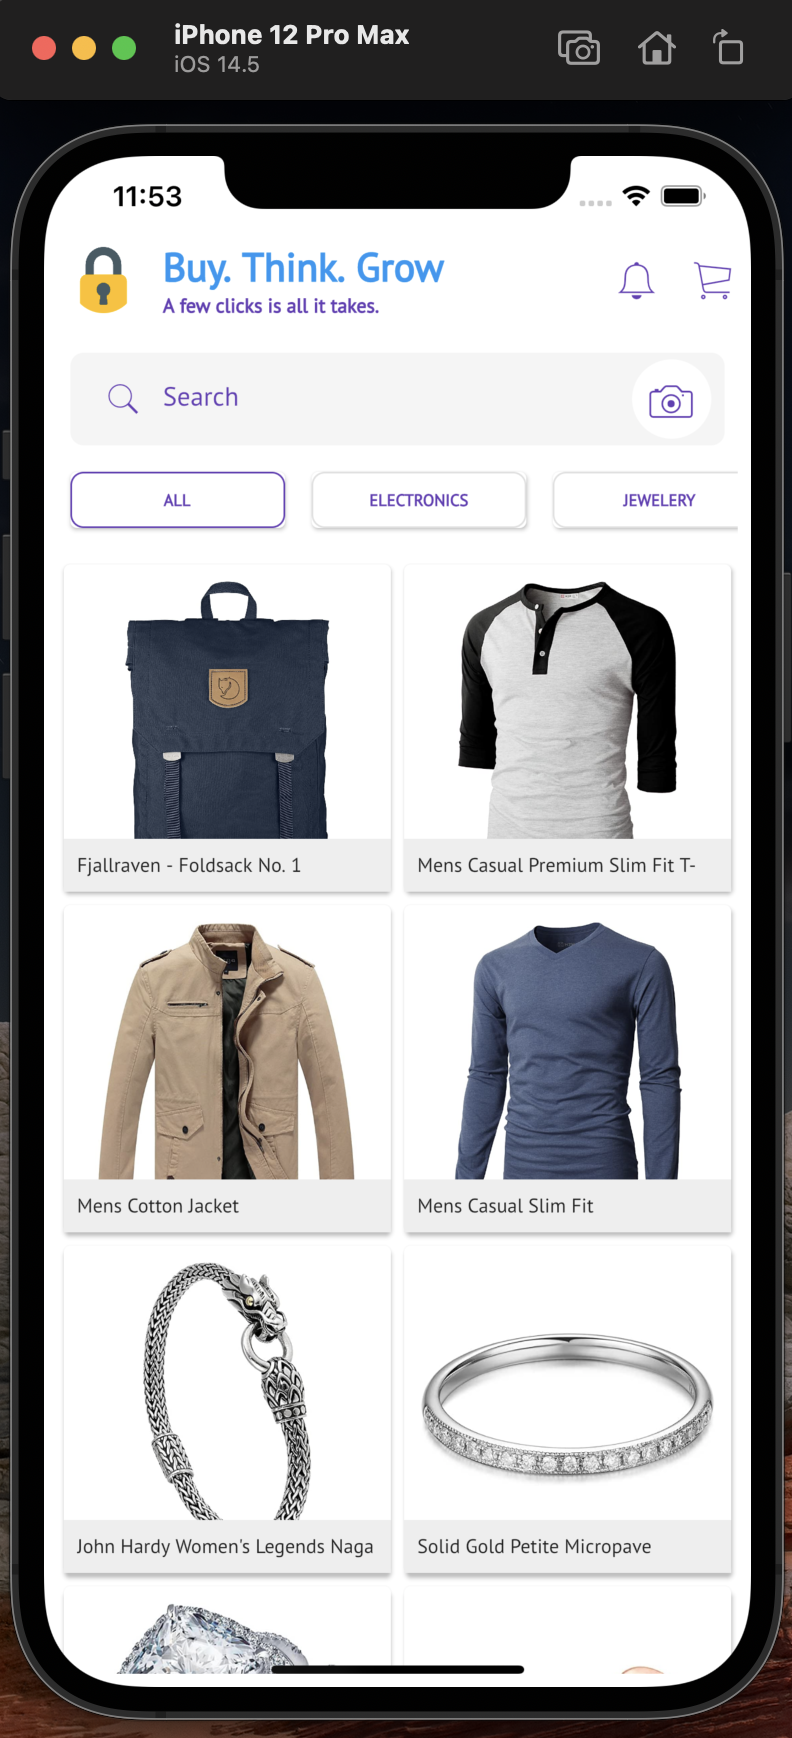
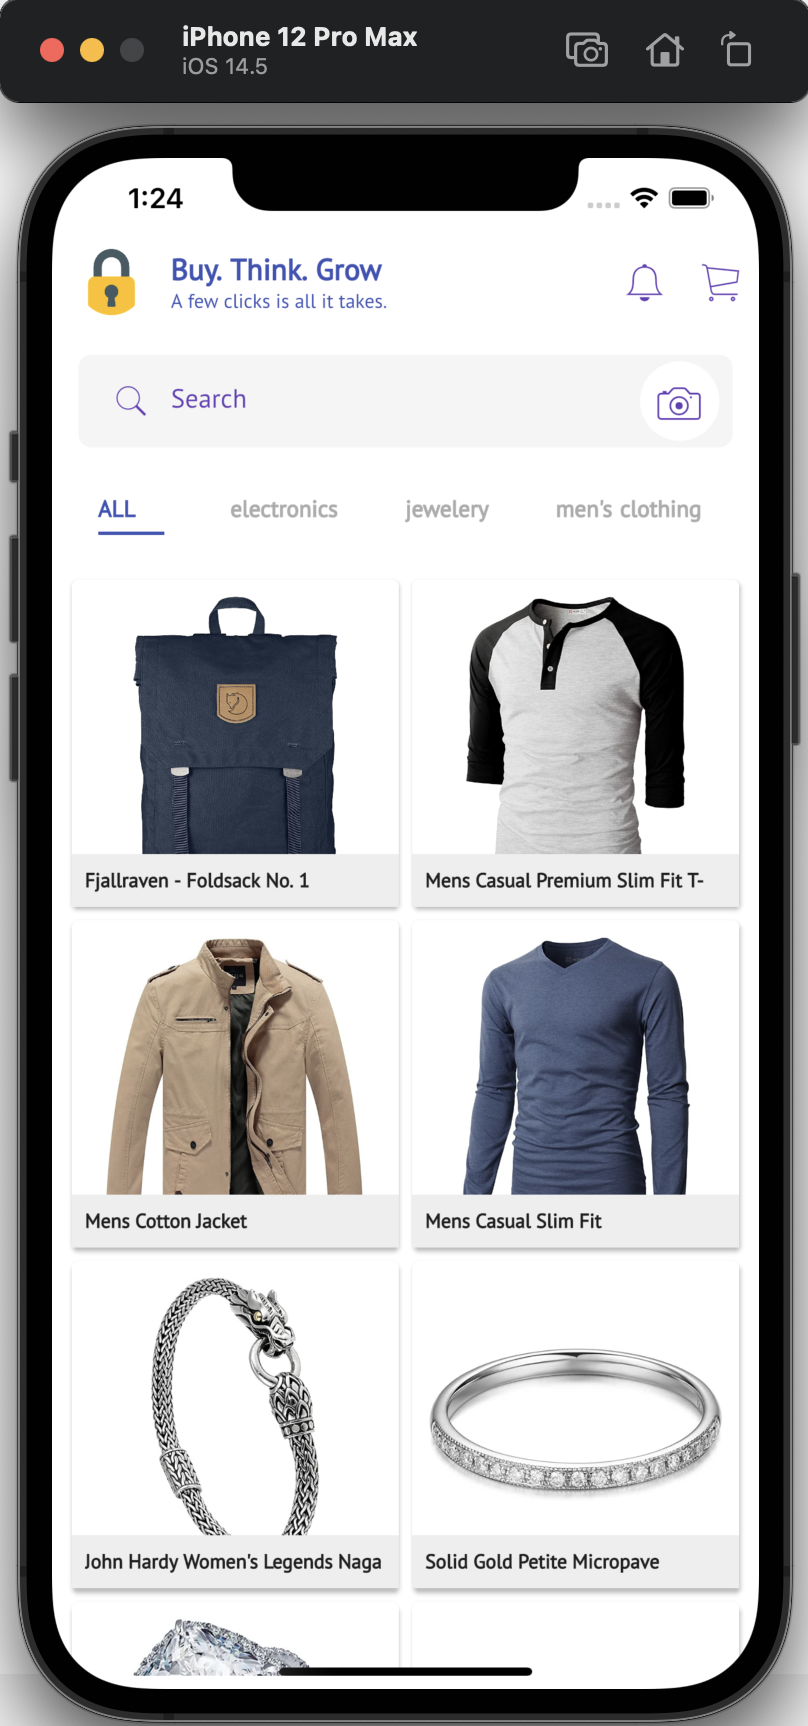
:bulb: code formatted

diff --git a/lib/src/screens/home/components/_product_category.dart b/lib/src/screens/home/components/_product_category.dart
@@ -46,14 +46,14 @@ class _CategoriesState extends State<Categories> {
               style: TextStyle(
                 fontWeight: FontWeight.bold,
                 wordSpacing: 1,
-                color: selectedIndex == index ? Colors.teal : kTextLightColor,
+                color: selectedIndex == index ? Colors.indigo : kTextLightColor,
               ),
             ),
             Container(
               margin: EdgeInsets.only(top: 20.0 / 4), //top padding 5
               height: 2,
               width: 40,
-              color: selectedIndex == index ? Colors.teal : Colors.transparent,
+              color: selectedIndex == index ? Colors.indigo : Colors.transparent,
             )
           ],
         ),

diff --git a/lib/src/screens/home/components/_action_bar.dart b/lib/src/screens/home/components/_action_bar.dart
@@ -31,14 +31,14 @@ AppBar homeActionBar(context) {
           Text(
             'Buy. Think. Grow',
             style: TextStyle(
-                fontSize: 18, fontWeight: FontWeight.bold, color: Colors.teal),
+                fontSize: 18, fontWeight: FontWeight.bold, color: Colors.indigo),
           ),
           Text(
             'A few clicks is all it takes.',
             style: TextStyle(
                 fontSize: 12,
                 fontWeight: FontWeight.normal,
-                color: Colors.teal),
+                color: Colors.indigo),
           )
         ],
       ),

diff --git a/README.md b/README.md
@@ -16,5 +16,3 @@ This project is a starting point for a Flutter application.
 
 <img src="https://github.com/ishaileshmishra/flutter_shopping_app/blob/main/assets/images/login.png?raw=true" width="300" height="650" />   <img src="https://github.com/ishaileshmishra/flutter_shopping_app/blob/main/assets/images/home.png?raw=true" width="300" height="650" />    <img src="https://github.com/ishaileshmishra/flutter_shopping_app/blob/main/assets/images/detail.png?raw=true" width="300" height="650" />
 <img src="https://github.com/ishaileshmishra/flutter_shopping_app/blob/main/assets/images/cart.png?raw=true" width="300" height="650" />    <img src="https://github.com/ishaileshmishra/flutter_shopping_app/blob/main/assets/images/payment.png?raw=true" width="300" height="650" /> <img src="https://github.com/ishaileshmishra/flutter_shopping_app/blob/main/assets/images/receipt.png?raw=true" width="300" height="650" />
-<img src="https://github.com/ishaileshmishra/flutter_shopping_app/blob/main/assets/images/notification.png?raw=true" width="300" height="650" />
-
